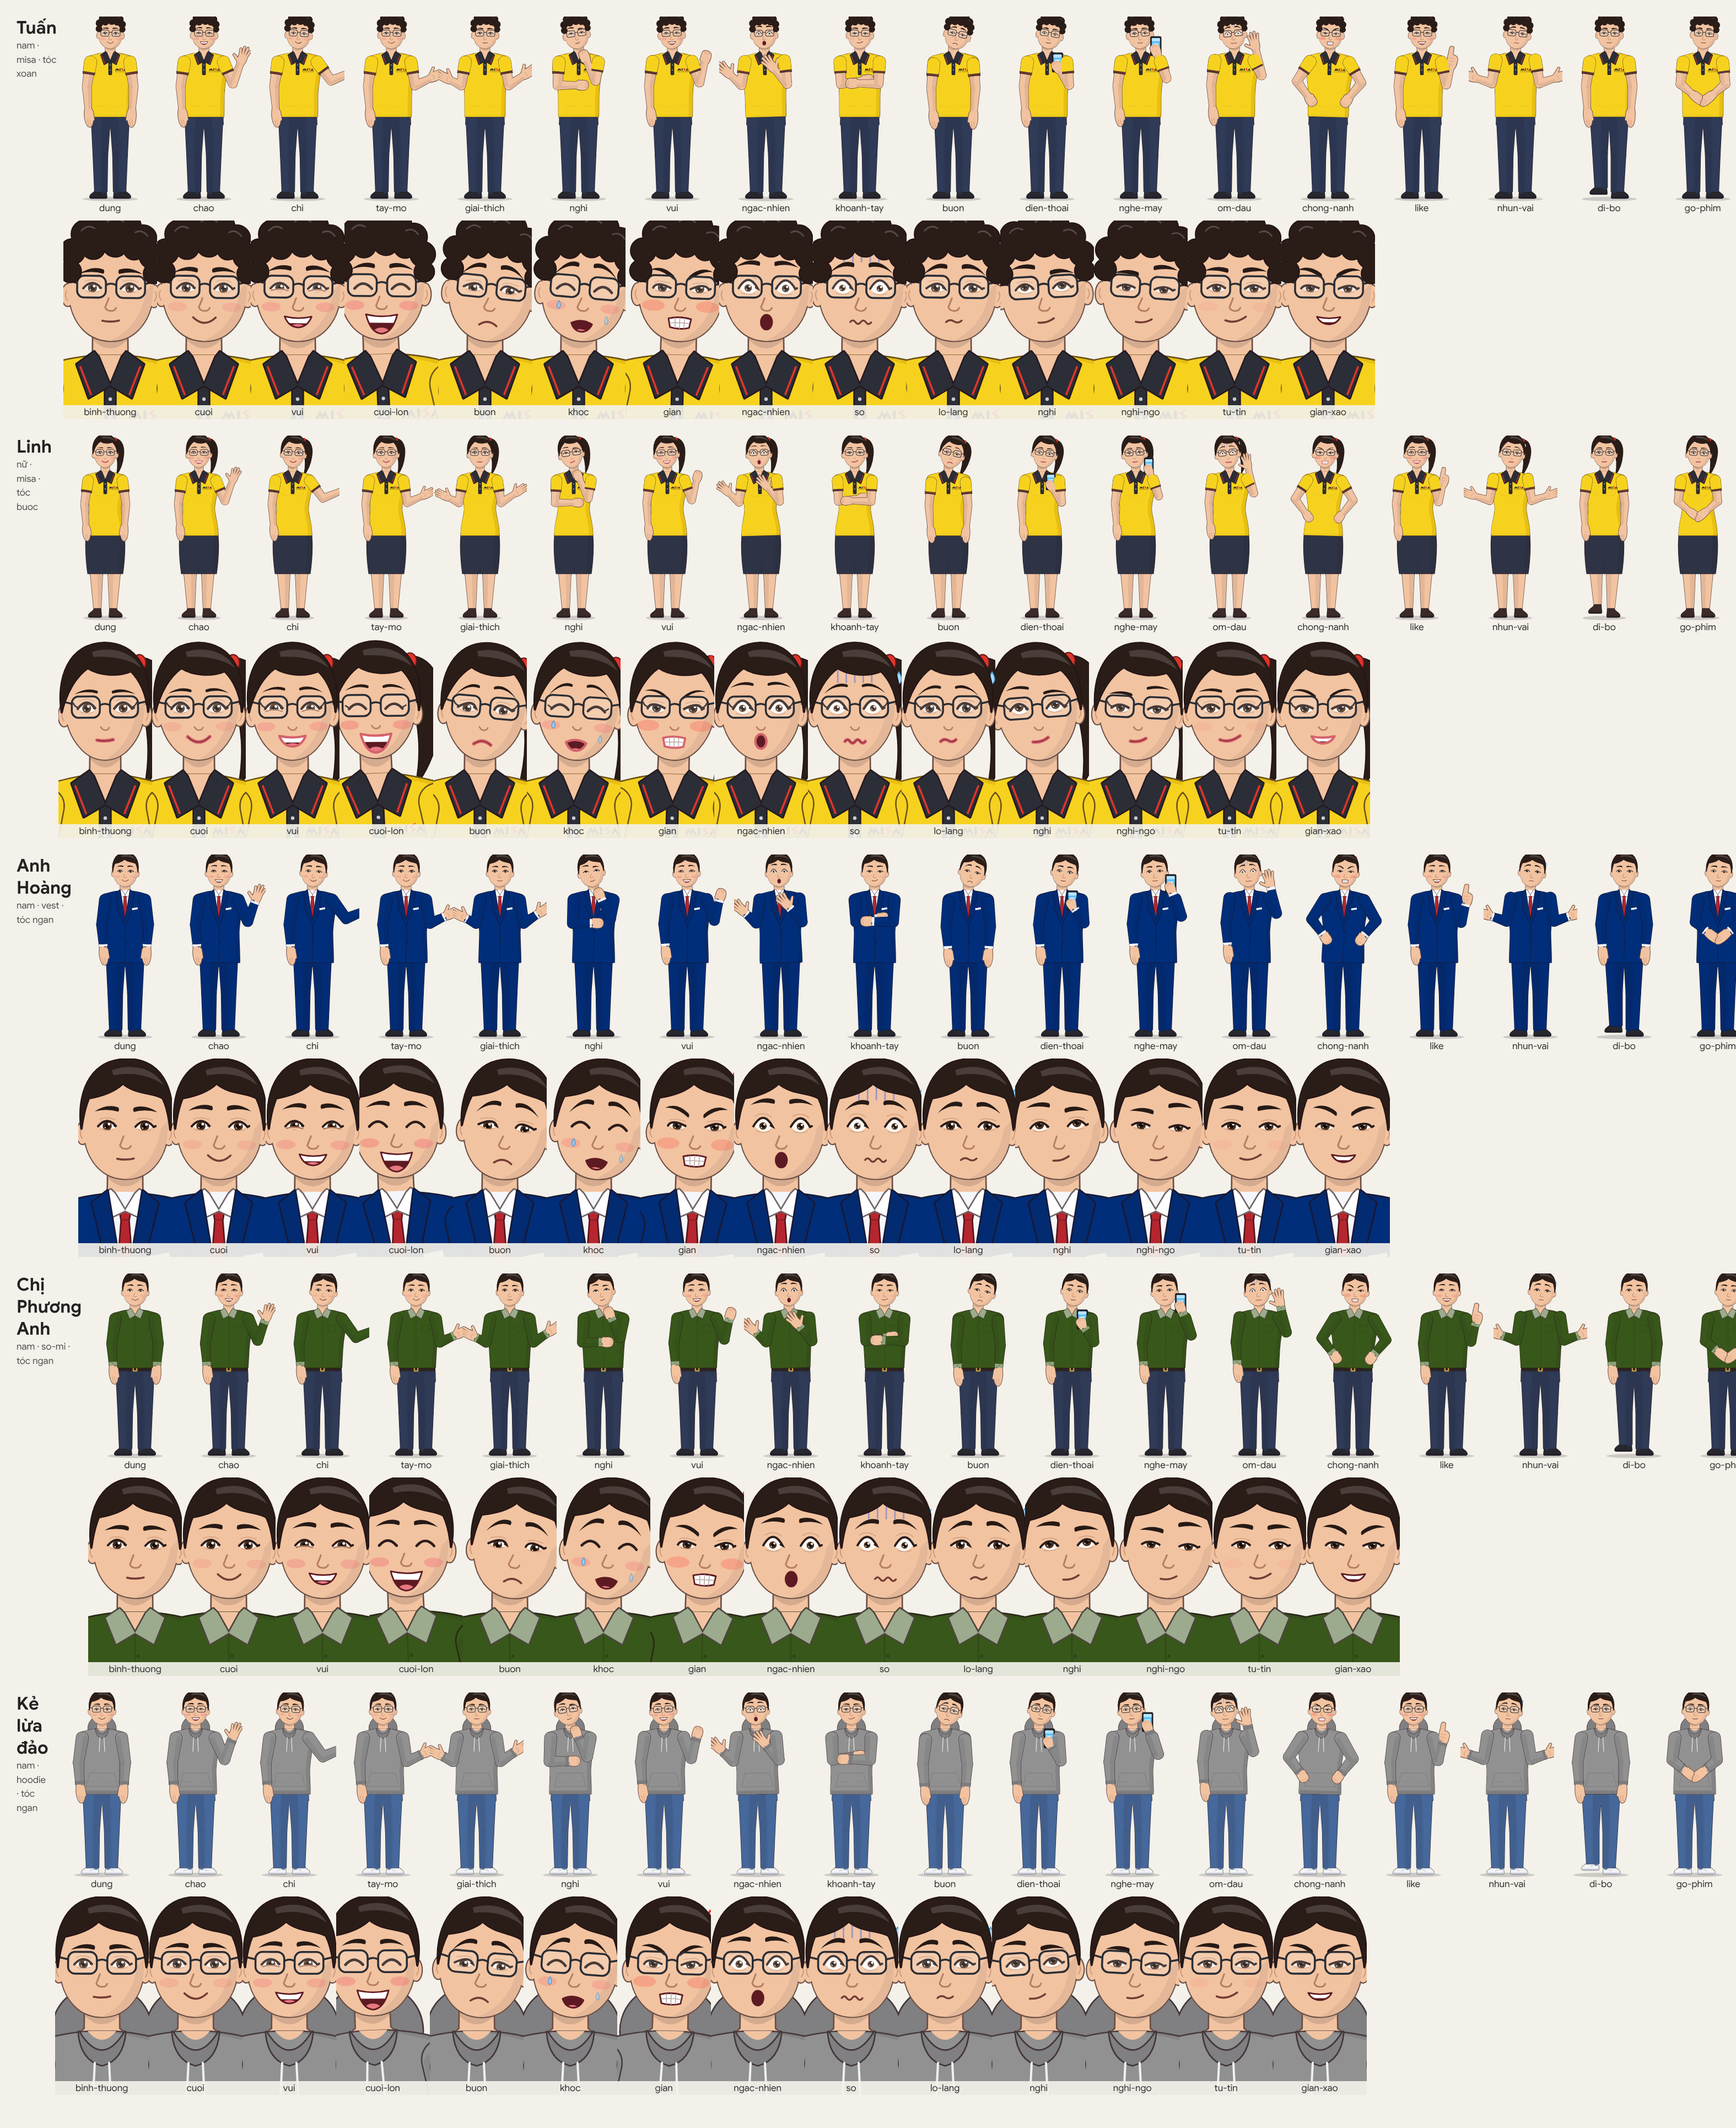
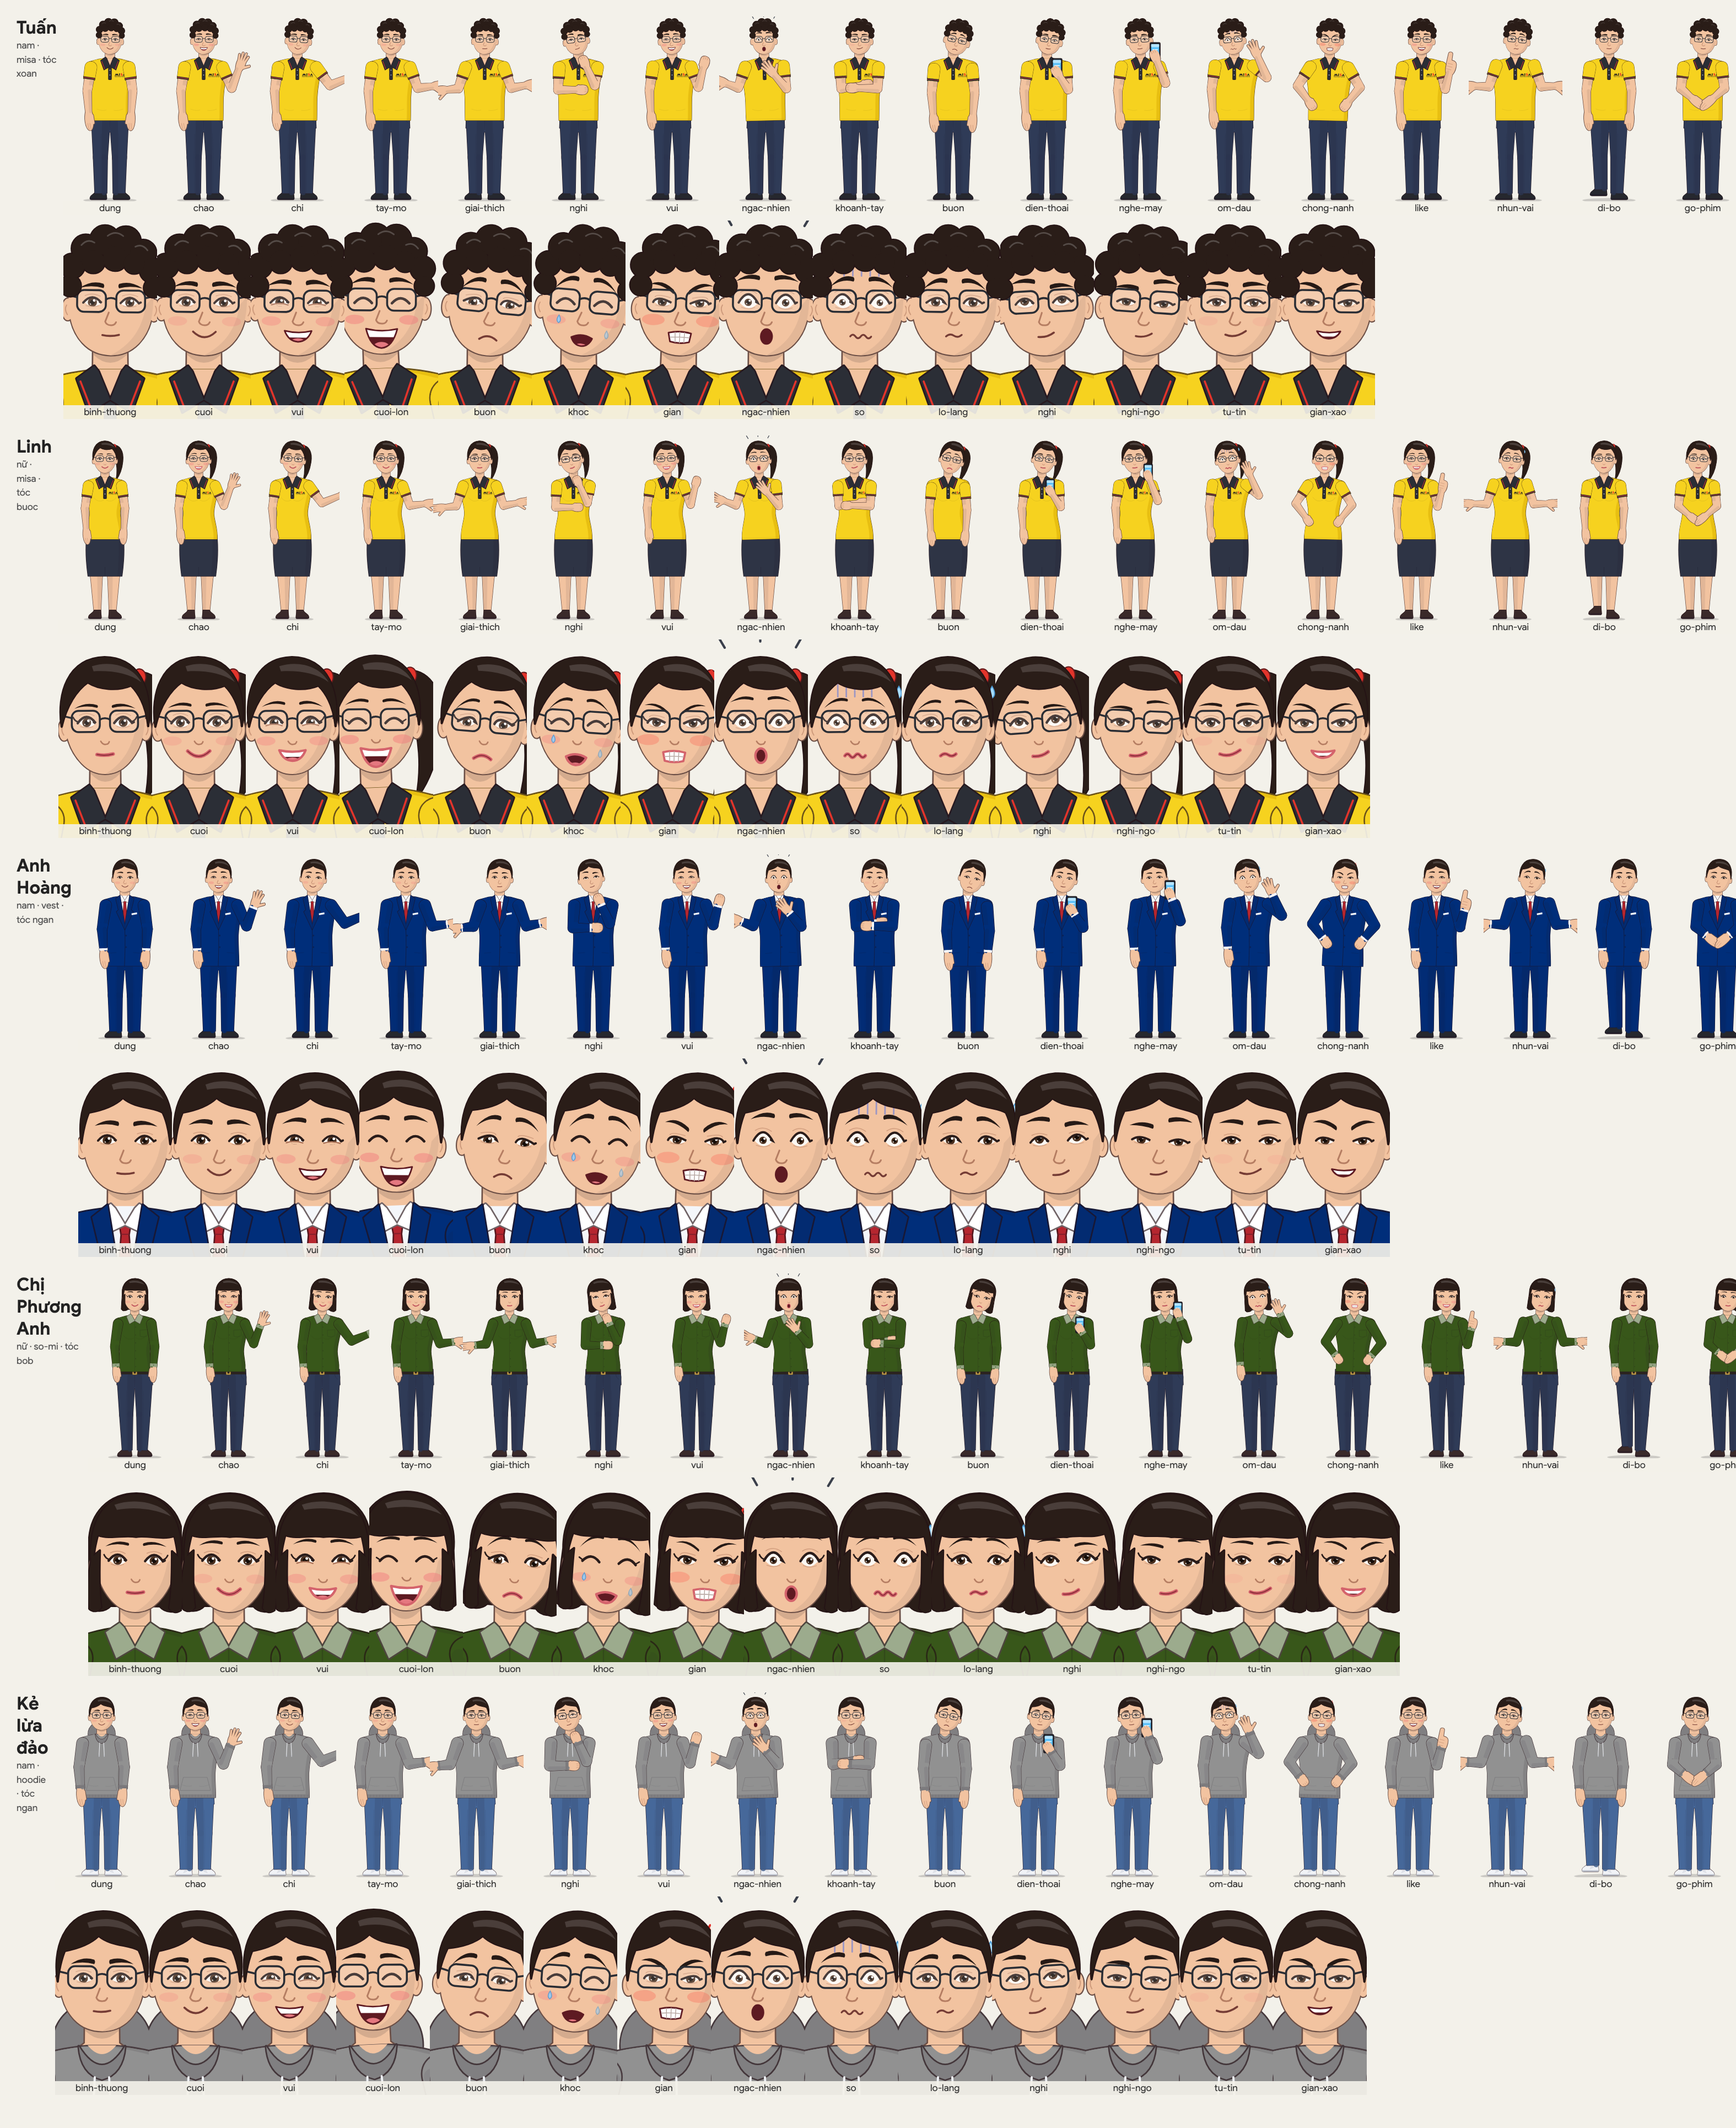
Người MISA cảnh giác: Chị Phương Anh là nhân vật nữ (tóc bob, giọng nữ)

diff --git a/series/nguoi-misa-canh-giac-voi-lua-dao/brief.md b/series/nguoi-misa-canh-giac-voi-lua-dao/brief.md
@@ -8,7 +8,7 @@
 - Khung hình: 9:16
 - Bối cảnh ưu tiên: van-phong, nha, hang-o
 - Giọng điệu: 
-- Nhân vật: moi-tap — Tuấn (nam, misa, nhân viên MISA, người dẫn chuyện); Linh (nữ, misa, đồng nghiệp, hay gặp tình huống); Anh Hoàng (nam, vest, Giám đốc); Chị Phương Anh (nam, so-mi, kế toán); Kẻ lừa đảo (nam, hoodie)
+- Nhân vật: moi-tap — Tuấn (nam, misa, nhân viên MISA, người dẫn chuyện); Linh (nữ, misa, đồng nghiệp, hay gặp tình huống); Anh Hoàng (nam, vest, Giám đốc); Chị Phương Anh (nữ, so-mi, kế toán); Kẻ lừa đảo (nam, hoodie)
 - Người dẫn chuyện: tuan
 - Khán giả: nhân viên văn phòng từ 22 - 40 tuổi, khách hàng, đối tác, người thân, bạn bè
 - Nền tảng: TikTok, Facebook Reels, YouTube Shorts
